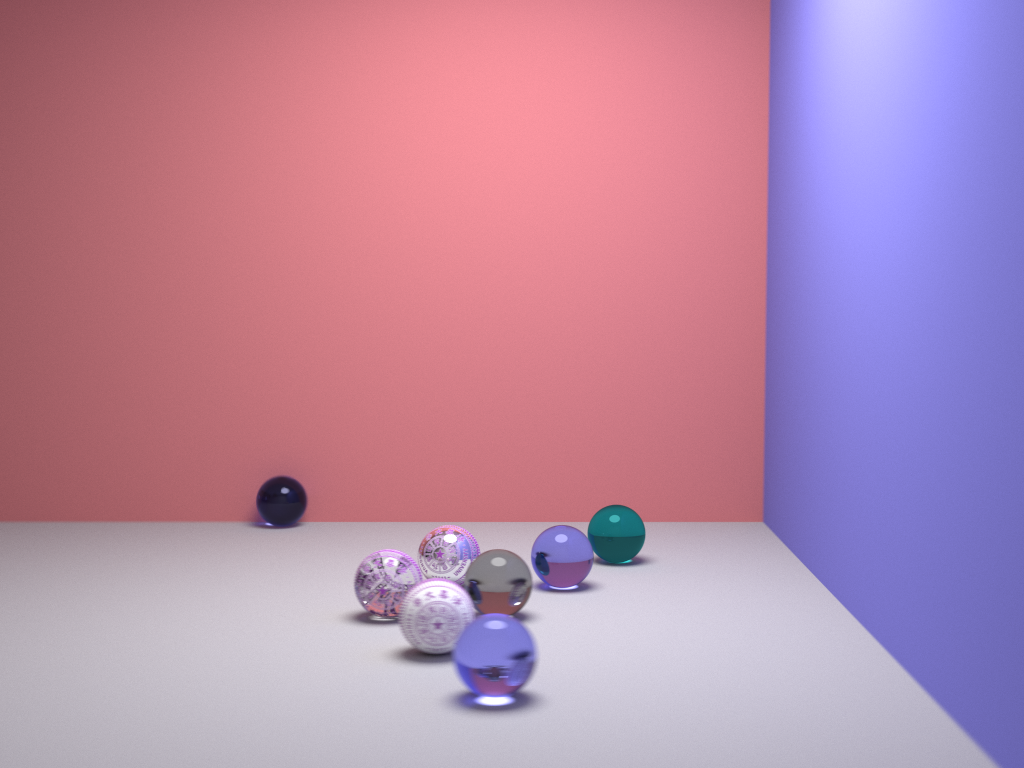
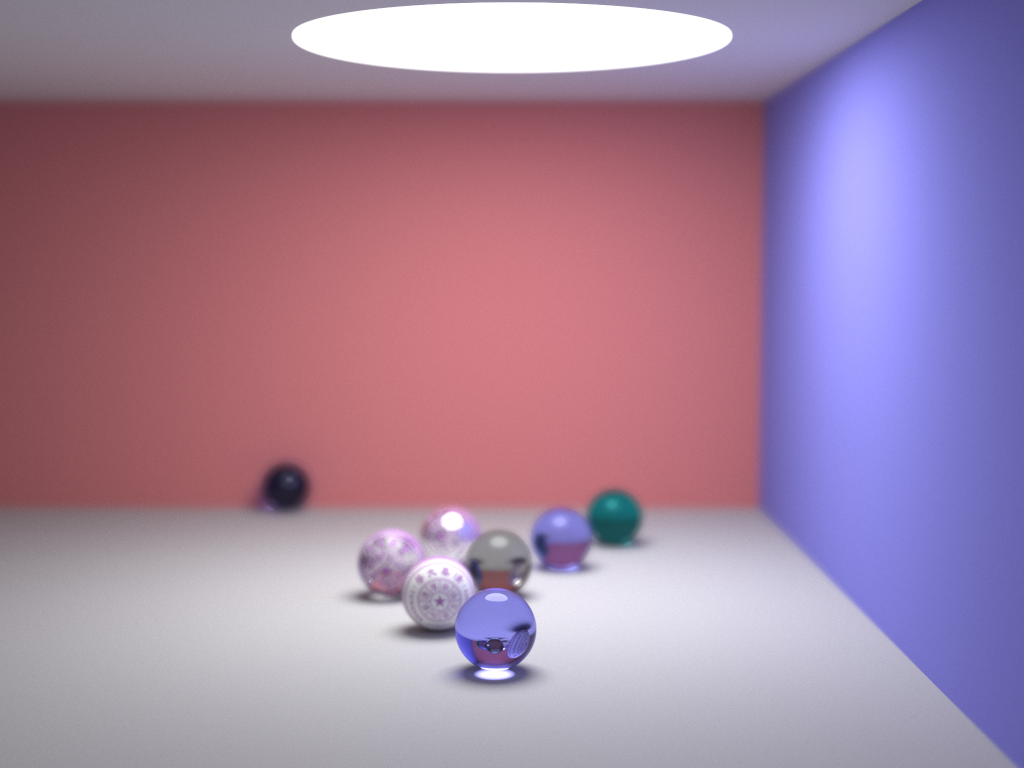
Add depth of field images

diff --git a/src/geo/collection/ds/mytree.rs b/src/geo/collection/ds/mytree.rs
@@ -127,7 +127,6 @@ impl MyTree {
                 $w.shrink_to_fit();
             };
         }
-        assert!(tri.len() != 0);
         let bbox = {
             let mut min = Vct::new(1e30, 1e30, 1e30);
             let mut max = Vct::new(-1e30, -1e30, -1e30);

diff --git a/src/geo/collection/ds/bsptree.rs b/src/geo/collection/ds/bsptree.rs
@@ -97,7 +97,6 @@ impl BSPTree {
                 $w.shrink_to_fit();
             };
         }
-        assert!(tri.len() != 0);
         let bbox = {
             let mut min = Vct::new(1e30, 1e30, 1e30);
             let mut max = Vct::new(-1e30, -1e30, -1e30);

diff --git a/src/geo/collection/ds/kdtree.rs b/src/geo/collection/ds/kdtree.rs
@@ -91,7 +91,6 @@ impl KDTree {
                 $w.shrink_to_fit();
             };
         }
-        assert!(tri.len() != 0);
         let bbox = {
             let mut min = Vct::new(1e30, 1e30, 1e30);
             let mut max = Vct::new(-1e30, -1e30, -1e30);

diff --git a/README.md b/README.md
@@ -44,10 +44,6 @@ See [./result/result_5.json](./result/result_5.json)
 
 ![](./result/result_5.png)
 
-See [./result/result_6.json](./result/result_6.json)
-
-![](./result/result_6.png)
-
 # Bezier
 
 $x(t), y(t)$
@@ -119,9 +115,9 @@ extern crate cg_tracing;
 use cg_tracing::prelude::*;
 
 fn main() {
-    let (w, mut p) = utils::from_json("./result/result_2.json", register! {});
-    w.render(&mut p);
-    p.save_png(&format!("./result/result_2.png", w.sample));
+    let (w, mut p, path) = utils::from_json("./example/result_2.json", register! {});
+    w.stochastic_progressive_photon_mapping(&mut p);
+    p.save_png(&path);
 }
 ```
 
